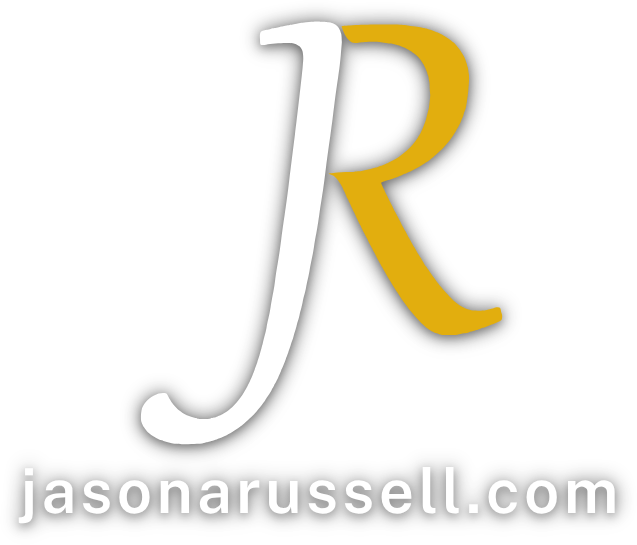
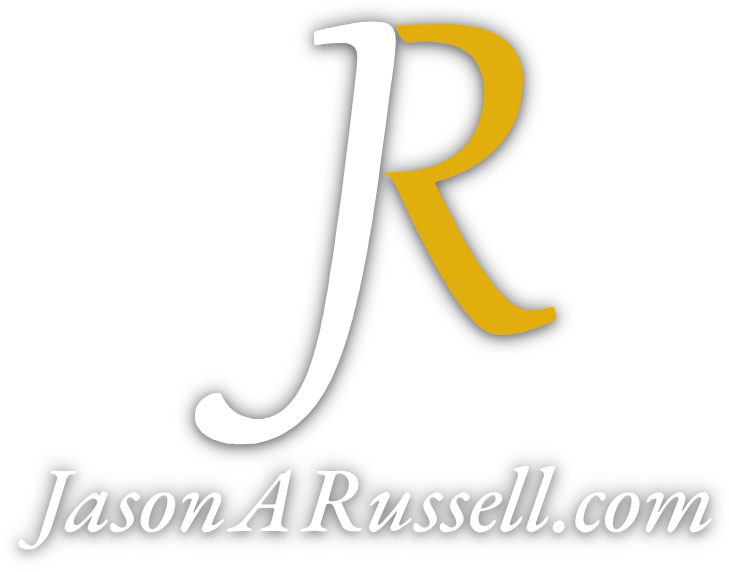
Watermark: JasonARussell.com in EB Garamond Italic
Claude-Session: https://claude.ai/code/session_01MrSPAQqot3sDk32cbH4VpL

diff --git a/tools/logo/watermark.html b/tools/logo/watermark.html
@@ -1,0 +1,5 @@
+<!doctype html><html><head><style>@font-face{font-family:W;src:url(/home/claude/logo/node_modules/@fontsource/eb-garamond/files/eb-garamond-latin-500-italic.woff2)}
+html,body{margin:0;background:transparent}
+.lock{display:inline-flex;flex-direction:column;align-items:center;padding:40px;filter:drop-shadow(0 0 10px rgba(0,0,0,.45)) drop-shadow(0 3px 5px rgba(0,0,0,.35))}
+.t{font-family:W;color:#fff;font-size:92px;line-height:1;margin-top:4px;white-space:nowrap}
+.t .a{margin:0 .055em}</style></head><body><div class=lock><svg xmlns="http://www.w3.org/2000/svg" viewBox="22.0 13.7 203.7 237.4" style="height:430px"><path d="M 189.89 188.57 C 189.42 188.48 188.81 188.29 188.56 188.15 C 188.29 188.01 187.76 187.84 187.38 187.76 C 186.29 187.56 183.75 186.20 182.45 185.13 C 182.23 184.94 181.73 184.55 181.35 184.24 C 178.48 181.95 173.73 176.67 170.83 172.56 C 170.30 171.81 169.51 170.74 169.08 170.19 C 168.64 169.64 167.86 168.51 167.34 167.69 C 166.82 166.86 166.28 166.02 166.14 165.81 C 165.60 165.00 164.72 163.65 164.25 162.88 C 163.96 162.43 163.60 161.87 163.45 161.63 C 163.28 161.40 162.84 160.66 162.46 160.00 C 162.09 159.33 161.48 158.33 161.13 157.78 C 160.16 156.25 159.45 155.03 157.23 151.05 C 156.82 150.31 155.21 147.40 154.38 145.88 C 154.14 145.43 153.87 144.89 153.79 144.68 C 153.70 144.47 153.27 143.67 152.84 142.90 C 152.40 142.13 152.04 141.43 152.05 141.34 C 152.06 141.26 151.91 140.96 151.71 140.68 C 151.52 140.40 151.13 139.70 150.84 139.14 C 150.56 138.57 150.15 137.79 149.93 137.40 C 149.71 137.01 149.54 136.64 149.55 136.59 C 149.55 136.53 149.37 136.17 149.15 135.78 C 148.49 134.62 147.99 133.64 148.00 133.53 C 148.01 133.48 147.80 133.07 147.54 132.63 C 146.71 131.15 145.51 128.70 145.53 128.53 C 145.53 128.47 145.39 128.19 145.23 127.92 C 144.88 127.36 143.75 125.14 143.76 125.04 C 143.77 125.01 143.67 124.83 143.57 124.64 C 143.46 124.46 143.21 123.95 143.01 123.50 C 142.08 121.34 141.88 120.91 141.59 120.50 C 141.42 120.26 141.29 120.02 141.30 119.97 C 141.30 119.91 141.18 119.64 141.03 119.35 C 140.88 119.07 140.63 118.55 140.48 118.20 C 139.64 116.25 139.41 115.77 139.13 115.32 C 138.97 115.06 138.84 114.78 138.85 114.71 C 138.86 114.64 138.68 114.24 138.46 113.82 C 137.82 112.59 137.43 111.79 137.22 111.22 C 137.12 110.93 136.80 110.23 136.54 109.66 C 136.27 109.10 135.83 108.16 135.57 107.58 C 135.30 106.99 134.71 105.95 134.24 105.25 C 133.79 104.55 133.31 103.80 133.19 103.58 C 132.86 102.99 131.29 101.38 130.50 100.82 C 129.83 100.34 128.48 99.77 128.01 99.76 C 127.81 99.75 127.72 99.50 127.92 99.50 C 127.97 99.50 129.06 99.39 130.34 99.25 C 133.22 98.95 136.75 98.75 139.16 98.75 C 140.19 98.75 141.40 98.67 141.99 98.56 C 142.55 98.46 143.68 98.34 144.51 98.30 C 145.68 98.24 146.28 98.14 147.17 97.85 C 147.80 97.65 148.91 97.41 149.63 97.31 C 150.38 97.20 151.34 96.97 151.88 96.77 C 152.40 96.57 153.26 96.34 153.79 96.26 C 154.33 96.18 154.98 95.98 155.27 95.82 C 155.56 95.66 156.14 95.43 156.57 95.31 C 156.99 95.19 157.74 94.90 158.25 94.67 C 158.76 94.44 159.25 94.25 159.33 94.25 C 159.48 94.25 161.73 93.17 163.48 92.27 C 167.43 90.22 172.21 86.20 175.02 82.57 C 175.77 81.60 176.51 80.59 176.67 80.31 C 176.84 80.04 177.12 79.59 177.29 79.31 C 178.23 77.81 178.82 76.76 178.94 76.38 C 179.01 76.13 179.28 75.56 179.53 75.09 C 179.78 74.63 180.07 73.93 180.19 73.53 C 180.30 73.14 180.61 72.31 180.89 71.70 C 181.15 71.09 181.48 70.11 181.60 69.52 C 181.85 68.33 182.77 64.86 183.04 64.06 C 183.27 63.40 183.99 56.59 183.90 55.89 C 183.77 54.86 183.58 51.69 183.58 50.62 C 183.59 49.95 183.49 49.22 183.32 48.62 C 183.17 48.11 183.03 47.32 183.01 46.87 C 182.98 46.36 182.83 45.72 182.60 45.20 C 182.40 44.74 182.25 44.27 182.26 44.17 C 182.28 43.98 182.19 43.72 181.52 42.12 C 180.79 40.41 180.45 39.69 180.27 39.44 C 180.16 39.30 179.79 38.69 179.42 38.09 C 178.29 36.20 177.04 34.88 174.62 33.04 C 174.01 32.57 173.29 32.05 173.01 31.89 C 172.74 31.73 172.23 31.41 171.88 31.19 C 171.52 30.97 171.05 30.72 170.81 30.64 C 170.57 30.56 170.19 30.36 169.96 30.19 C 169.73 30.02 169.17 29.80 168.73 29.69 C 168.29 29.59 167.67 29.36 167.36 29.19 C 167.04 29.01 166.43 28.81 165.99 28.74 C 165.56 28.67 164.66 28.42 163.98 28.18 C 163.23 27.92 162.52 27.75 162.14 27.75 C 161.57 27.75 157.50 27.17 155.97 26.88 C 154.95 26.68 149.57 26.72 147.77 26.94 C 146.93 27.04 145.33 27.24 144.22 27.38 C 142.87 27.54 142.16 27.59 142.09 27.50 C 142.03 27.43 141.86 27.37 141.72 27.37 C 141.32 27.38 140.24 26.93 139.86 26.61 C 138.70 25.63 138.09 25.04 137.89 24.68 C 137.76 24.46 137.46 23.97 137.21 23.59 C 136.45 22.43 134.81 18.37 135.02 18.17 C 135.07 18.14 136.98 18.01 139.29 17.87 C 141.60 17.74 144.43 17.57 145.57 17.48 C 148.49 17.28 163.17 17.20 167.16 17.36 C 169.98 17.48 170.57 17.54 171.61 17.82 C 172.40 18.04 173.39 18.18 174.49 18.25 C 176.11 18.36 176.87 18.48 179.04 18.99 C 179.60 19.13 180.48 19.30 180.97 19.37 C 181.46 19.44 182.17 19.64 182.54 19.80 C 182.93 19.97 183.58 20.17 184.03 20.25 C 184.47 20.34 185.11 20.56 185.47 20.75 C 185.83 20.93 186.43 21.16 186.80 21.25 C 187.16 21.33 187.73 21.56 188.06 21.75 C 188.38 21.94 188.86 22.17 189.13 22.25 C 189.69 22.44 191.45 23.41 191.96 23.82 C 192.15 23.98 192.51 24.19 192.76 24.30 C 193.21 24.49 195.45 26.13 196.62 27.11 C 198.23 28.47 201.08 32.15 202.14 34.27 C 203.07 36.10 203.34 36.70 203.49 37.29 C 203.58 37.65 203.79 38.27 203.96 38.67 C 204.13 39.08 204.25 39.49 204.24 39.59 C 204.23 39.69 204.35 40.16 204.51 40.64 C 204.67 41.12 204.85 41.95 204.89 42.47 C 204.94 43.00 205.02 43.69 205.10 44.00 C 205.37 45.25 205.41 46.44 205.27 49.12 C 205.08 52.68 204.70 56.27 204.13 59.94 C 203.64 63.11 203.46 63.85 202.88 65.24 C 202.65 65.76 202.40 66.56 202.31 67.02 C 202.22 67.53 201.95 68.29 201.62 68.96 C 201.32 69.57 201.02 70.29 200.94 70.56 C 200.86 70.84 200.60 71.43 200.35 71.88 C 200.11 72.32 199.82 72.91 199.71 73.19 C 199.59 73.46 199.28 74.03 199.01 74.44 C 198.75 74.85 198.47 75.33 198.40 75.50 C 198.33 75.67 197.84 76.49 197.31 77.31 C 196.77 78.14 196.17 79.07 195.99 79.38 C 195.80 79.68 195.37 80.28 195.02 80.71 C 194.69 81.13 193.93 82.09 193.34 82.83 C 192.02 84.51 190.20 86.35 187.35 88.88 C 184.52 91.41 183.43 92.27 181.72 93.37 C 180.94 93.86 180.00 94.49 179.63 94.76 C 179.26 95.04 178.59 95.44 178.16 95.65 C 177.73 95.86 177.22 96.14 177.04 96.28 C 176.30 96.80 172.53 98.75 172.25 98.75 C 172.19 98.75 171.66 98.97 171.06 99.25 C 170.47 99.52 169.91 99.75 169.82 99.75 C 169.72 99.75 169.22 99.97 168.70 100.23 C 168.18 100.50 167.60 100.75 167.40 100.80 C 167.22 100.84 166.77 101.04 166.44 101.24 C 166.11 101.44 165.54 101.67 165.17 101.76 C 164.80 101.84 164.23 102.04 163.88 102.21 C 163.53 102.37 162.84 102.59 162.33 102.69 C 161.82 102.80 161.08 103.03 160.69 103.20 C 160.29 103.38 159.44 103.63 158.81 103.76 C 157.69 103.99 157.17 104.24 156.87 104.65 C 156.75 104.79 156.89 105.23 157.47 106.45 C 157.87 107.34 158.29 108.21 158.39 108.38 C 158.49 108.56 158.71 109.04 158.89 109.45 C 159.07 109.85 159.46 110.67 159.78 111.25 C 160.10 111.83 160.42 112.48 160.50 112.69 C 160.57 112.89 160.77 113.32 160.95 113.62 C 161.13 113.93 161.27 114.24 161.26 114.30 C 161.25 114.36 161.57 114.98 161.96 115.67 C 162.68 116.95 163.18 117.96 163.74 119.31 C 163.92 119.72 164.17 120.21 164.30 120.38 C 164.42 120.55 164.73 121.12 164.99 121.63 C 165.24 122.14 165.74 123.10 166.09 123.75 C 166.95 125.33 167.57 126.55 167.90 127.32 C 168.06 127.67 168.37 128.25 168.62 128.62 C 168.86 128.99 169.20 129.63 169.39 130.03 C 169.57 130.44 169.89 131.03 170.11 131.35 C 170.32 131.67 170.69 132.33 170.92 132.81 C 171.15 133.29 171.56 134.07 171.85 134.54 C 172.14 135.00 172.60 135.82 172.88 136.36 C 173.78 138.05 174.69 139.67 175.04 140.19 C 175.22 140.46 175.60 141.11 175.89 141.62 C 176.70 143.10 176.75 143.18 177.44 144.23 C 177.79 144.78 178.35 145.70 178.69 146.27 C 179.03 146.84 179.50 147.59 179.75 147.94 C 179.98 148.28 180.34 148.90 180.54 149.31 C 180.75 149.72 181.22 150.46 181.59 150.94 C 181.97 151.42 182.71 152.49 183.23 153.31 C 183.76 154.14 184.74 155.52 185.41 156.39 C 186.80 158.20 187.22 158.79 188.20 160.21 C 189.22 161.72 195.53 168.68 196.71 169.61 C 197.94 170.59 198.71 171.22 199.16 171.64 C 199.36 171.82 199.84 172.14 200.25 172.36 C 200.65 172.57 201.01 172.80 201.05 172.86 C 201.08 172.93 201.40 173.10 201.76 173.24 C 202.12 173.38 202.61 173.64 202.86 173.81 C 203.10 173.98 203.68 174.20 204.14 174.30 C 204.61 174.41 205.35 174.64 205.77 174.82 C 206.76 175.24 208.92 175.41 211.98 175.30 C 214.04 175.23 214.26 175.20 215.47 174.80 C 216.19 174.57 217.14 174.33 217.60 174.26 C 218.11 174.19 218.74 174.00 219.20 173.76 C 219.85 173.44 220.10 173.38 220.83 173.38 C 222.36 173.38 222.76 173.73 222.92 175.24 C 222.97 175.71 223.16 176.46 223.33 176.89 C 223.61 177.58 223.64 177.85 223.59 178.84 C 223.53 179.76 223.47 180.06 223.28 180.31 C 222.97 180.71 221.67 181.49 220.95 181.71 C 220.65 181.80 220.08 182.03 219.71 182.24 C 219.33 182.44 218.77 182.67 218.45 182.75 C 218.14 182.83 217.55 183.05 217.15 183.24 C 216.75 183.43 216.14 183.65 215.80 183.74 C 215.46 183.82 214.88 184.05 214.50 184.24 C 214.12 184.44 213.50 184.66 213.10 184.73 C 212.70 184.80 212.04 185.03 211.60 185.24 C 211.18 185.45 210.53 185.68 210.16 185.75 C 209.78 185.82 209.08 186.04 208.59 186.25 C 208.10 186.45 207.28 186.68 206.79 186.75 C 206.29 186.82 205.64 186.99 205.36 187.13 C 204.65 187.47 203.49 187.75 202.78 187.75 C 202.45 187.75 201.71 187.90 201.12 188.08 C 200.52 188.26 199.49 188.48 198.83 188.58 C 197.25 188.80 191.11 188.79 189.89 188.57Z" fill="#e2ae0e"/><path d="M 46.67 249.00 C 45.85 248.94 44.40 248.83 43.45 248.76 C 42.34 248.67 41.31 248.52 40.62 248.32 C 40.01 248.14 39.06 247.92 38.49 247.81 C 37.91 247.70 37.09 247.44 36.66 247.25 C 36.23 247.05 35.61 246.83 35.30 246.75 C 34.43 246.55 30.69 244.56 29.86 243.86 C 29.47 243.52 28.86 243.03 28.51 242.76 C 27.30 241.85 25.42 239.33 24.94 238.00 C 24.81 237.62 24.58 237.04 24.45 236.71 C 23.96 235.56 24.12 231.40 24.73 229.33 C 25.02 228.35 26.00 226.66 26.84 225.69 C 29.55 222.56 33.41 220.64 36.75 220.77 C 37.79 220.81 37.94 220.85 38.32 221.16 C 38.55 221.34 38.95 221.94 39.20 222.47 C 39.63 223.33 40.19 224.26 41.67 226.51 C 42.23 227.36 44.33 229.61 45.19 230.26 C 46.58 231.32 47.72 232.09 48.23 232.30 C 48.53 232.42 48.90 232.62 49.06 232.75 C 49.23 232.87 49.66 233.07 50.03 233.19 C 50.38 233.31 51.05 233.57 51.49 233.77 C 51.94 233.97 52.75 234.22 53.29 234.31 C 53.83 234.41 54.69 234.62 55.21 234.78 C 56.05 235.04 56.39 235.06 58.89 235.06 C 61.39 235.06 61.72 235.04 62.56 234.78 C 63.06 234.63 63.92 234.42 64.46 234.32 C 64.99 234.22 65.89 233.94 66.44 233.71 C 67.00 233.47 67.59 233.24 67.77 233.19 C 68.39 233.01 71.03 231.45 72.37 230.45 C 75.43 228.19 78.73 224.36 81.08 220.38 C 82.51 217.96 82.94 217.16 83.13 216.64 C 83.25 216.35 83.53 215.78 83.77 215.39 C 84.01 215.00 84.29 214.43 84.39 214.11 C 84.49 213.80 84.80 213.11 85.06 212.59 C 85.31 212.08 85.66 211.27 85.81 210.79 C 85.96 210.32 86.27 209.56 86.49 209.10 C 86.71 208.63 86.99 207.87 87.10 207.41 C 87.23 206.94 87.55 206.06 87.81 205.44 C 88.07 204.82 88.40 203.83 88.54 203.25 C 88.67 202.67 88.99 201.69 89.22 201.08 C 89.45 200.47 89.76 199.51 89.88 198.95 C 90.01 198.39 90.33 197.23 90.59 196.38 C 90.85 195.52 91.21 194.19 91.40 193.44 C 92.26 189.88 92.64 188.36 92.89 187.50 C 93.03 186.98 93.33 185.58 93.53 184.38 C 93.73 183.17 94.04 181.57 94.22 180.81 C 95.06 177.32 95.24 176.44 95.76 173.19 C 96.07 171.29 96.44 169.16 96.58 168.46 C 97.39 164.49 97.70 162.67 98.19 159.00 C 98.80 154.47 98.97 153.35 99.63 149.56 C 100.31 145.62 100.84 142.01 101.60 136.12 C 102.42 129.65 102.70 127.64 103.44 122.81 C 104.46 116.12 104.97 112.33 106.00 103.75 C 106.98 95.55 107.87 88.39 109.23 77.75 C 110.32 69.24 113.00 45.78 113.45 40.88 C 113.86 36.33 113.88 35.76 113.62 33.50 C 113.45 31.98 113.38 31.73 112.85 30.75 C 112.29 29.72 111.66 29.15 110.26 28.45 C 109.05 27.83 108.41 27.71 105.51 27.56 C 102.64 27.41 95.91 27.89 93.28 28.43 C 92.04 28.69 90.66 28.69 90.33 28.43 C 90.03 28.21 89.93 27.68 89.94 26.44 C 89.95 25.96 89.91 25.18 89.86 24.71 C 89.76 23.68 89.90 22.13 90.14 21.69 C 90.49 21.08 91.85 20.51 93.61 20.25 C 94.14 20.17 95.12 19.94 95.77 19.75 C 96.41 19.56 97.39 19.34 97.95 19.26 C 98.51 19.18 99.54 18.95 100.24 18.75 C 100.95 18.55 102.05 18.32 102.68 18.25 C 103.30 18.17 104.45 17.95 105.23 17.75 C 106.00 17.55 107.23 17.32 107.96 17.25 C 108.70 17.17 109.93 16.97 110.70 16.80 C 111.48 16.63 112.65 16.44 113.31 16.38 C 119.85 15.72 120.27 15.69 123.06 15.70 C 125.57 15.71 126.19 15.75 127.84 16.04 C 129.48 16.32 129.87 16.44 130.69 16.89 C 132.18 17.70 133.04 18.49 133.63 19.60 C 133.92 20.13 134.20 20.76 134.27 21.01 C 134.32 21.25 134.49 21.75 134.64 22.11 C 134.83 22.58 134.92 23.24 134.97 24.48 C 135.01 25.42 135.07 26.50 135.10 26.88 C 135.12 27.25 134.86 30.57 134.51 34.25 C 133.97 39.87 133.74 41.83 133.03 46.50 C 132.13 52.44 131.40 57.87 130.02 69.06 C 129.54 72.91 128.98 77.22 128.76 78.62 C 127.88 84.57 126.84 92.13 126.04 98.62 C 125.10 106.20 124.53 110.19 123.85 114.12 C 123.60 115.53 123.15 118.54 122.84 120.81 C 122.04 126.58 121.50 130.14 121.06 132.25 C 120.45 135.27 120.13 137.16 119.62 140.62 C 119.31 142.77 118.91 144.99 118.46 146.94 C 118.09 148.59 117.60 151.03 117.39 152.38 C 117.18 153.72 116.69 156.16 116.32 157.81 C 115.94 159.46 115.49 161.60 115.31 162.56 C 115.14 163.53 114.82 164.96 114.59 165.75 C 113.90 168.25 113.83 168.52 113.50 170.38 C 113.31 171.37 112.99 172.83 112.77 173.62 C 112.54 174.42 112.28 175.37 112.17 175.75 C 112.07 176.13 111.86 177.06 111.72 177.81 C 111.56 178.57 111.31 179.57 111.16 180.03 C 111.01 180.50 110.77 181.25 110.62 181.72 C 110.48 182.18 110.24 183.12 110.10 183.81 C 109.94 184.50 109.60 185.71 109.30 186.50 C 109.02 187.29 108.68 188.47 108.53 189.12 C 108.38 189.78 108.04 190.88 107.77 191.56 C 107.50 192.25 107.18 193.23 107.04 193.75 C 106.92 194.27 106.58 195.28 106.30 196.00 C 106.03 196.72 105.71 197.68 105.59 198.13 C 105.47 198.57 105.16 199.42 104.90 200.01 C 104.64 200.60 104.31 201.50 104.17 202.01 C 104.03 202.51 103.75 203.29 103.53 203.73 C 103.33 204.17 102.99 205.00 102.80 205.58 C 102.60 206.16 102.30 206.86 102.13 207.13 C 101.97 207.40 101.70 207.99 101.56 208.44 C 101.40 208.90 101.07 209.69 100.80 210.21 C 100.54 210.73 100.24 211.44 100.12 211.80 C 100.02 212.15 99.73 212.76 99.50 213.14 C 99.26 213.53 98.98 214.10 98.87 214.39 C 98.76 214.69 98.48 215.22 98.25 215.56 C 98.02 215.91 97.74 216.41 97.63 216.69 C 97.51 216.96 97.19 217.56 96.91 218.01 C 96.63 218.47 96.40 218.91 96.39 218.99 C 96.38 219.07 96.24 219.35 96.08 219.60 C 95.36 220.78 94.56 222.03 93.91 223.00 C 93.52 223.58 93.02 224.34 92.79 224.69 C 91.82 226.20 89.24 229.49 87.14 231.94 C 86.21 233.02 82.31 236.68 80.67 238.03 C 78.36 239.90 78.20 240.02 75.01 242.01 C 73.19 243.15 73.02 243.25 71.97 243.76 C 71.47 244.01 70.40 244.53 69.61 244.92 C 68.82 245.31 67.95 245.69 67.66 245.76 C 67.39 245.83 66.85 246.02 66.48 246.18 C 65.33 246.69 62.37 247.60 61.21 247.81 C 60.61 247.91 59.87 248.08 59.58 248.18 C 58.72 248.48 57.70 248.62 55.12 248.81 C 51.86 249.06 48.50 249.13 46.67 249.00Z" fill="#fff"/></svg><div class=t>Jason<span class=a>A</span>Russell.com</div></div></body></html>

diff --git a/worker/index.js b/worker/index.js
@@ -15,7 +15,7 @@ import { parseJpegHead } from "./jpeg.js";
 // transformation per photo (Cloudflare Images free tier: 5,000 unique/month).
 export const VARIANTS = {
   thumb: { long: 720, quality: 80, mark: 96, inset: 12 },
-  full: { long: 1600, quality: 84, mark: 200, inset: 24 },
+  full: { long: 1600, quality: 84, mark: 220, inset: 24 },
 };
 
 const IMAGE_EXT = /\.(jpe?g)$/i;

diff --git a/docs/BRAND.md b/docs/BRAND.md
@@ -12,7 +12,7 @@ Jason's original Gabriola-based monogram, traced to vector and refined (November
 | `public/brand/jr-mark-black.svg` / `jr-mark-white.svg` | One-color uses (stamps, embossing). In one color the mark reads more like an R, so prefer two-tone. |
 | `public/favicon.svg` | Browser tab; switches the J to light in dark mode |
 | `public/apple-touch-icon.png` | Phone home-screen icon |
-| `public/watermark.png` | Photo watermark: white J, gold R, "jasonarussell.com", soft shadow |
+| `public/watermark.png` | Photo watermark: white J, gold R over "Jason A Russell.com" (EB Garamond Italic, half spaces around the A), soft shadow |
 
 ## Colors
 - Black `#141414`, goldenrod `#E2AE0E` (the mark)
